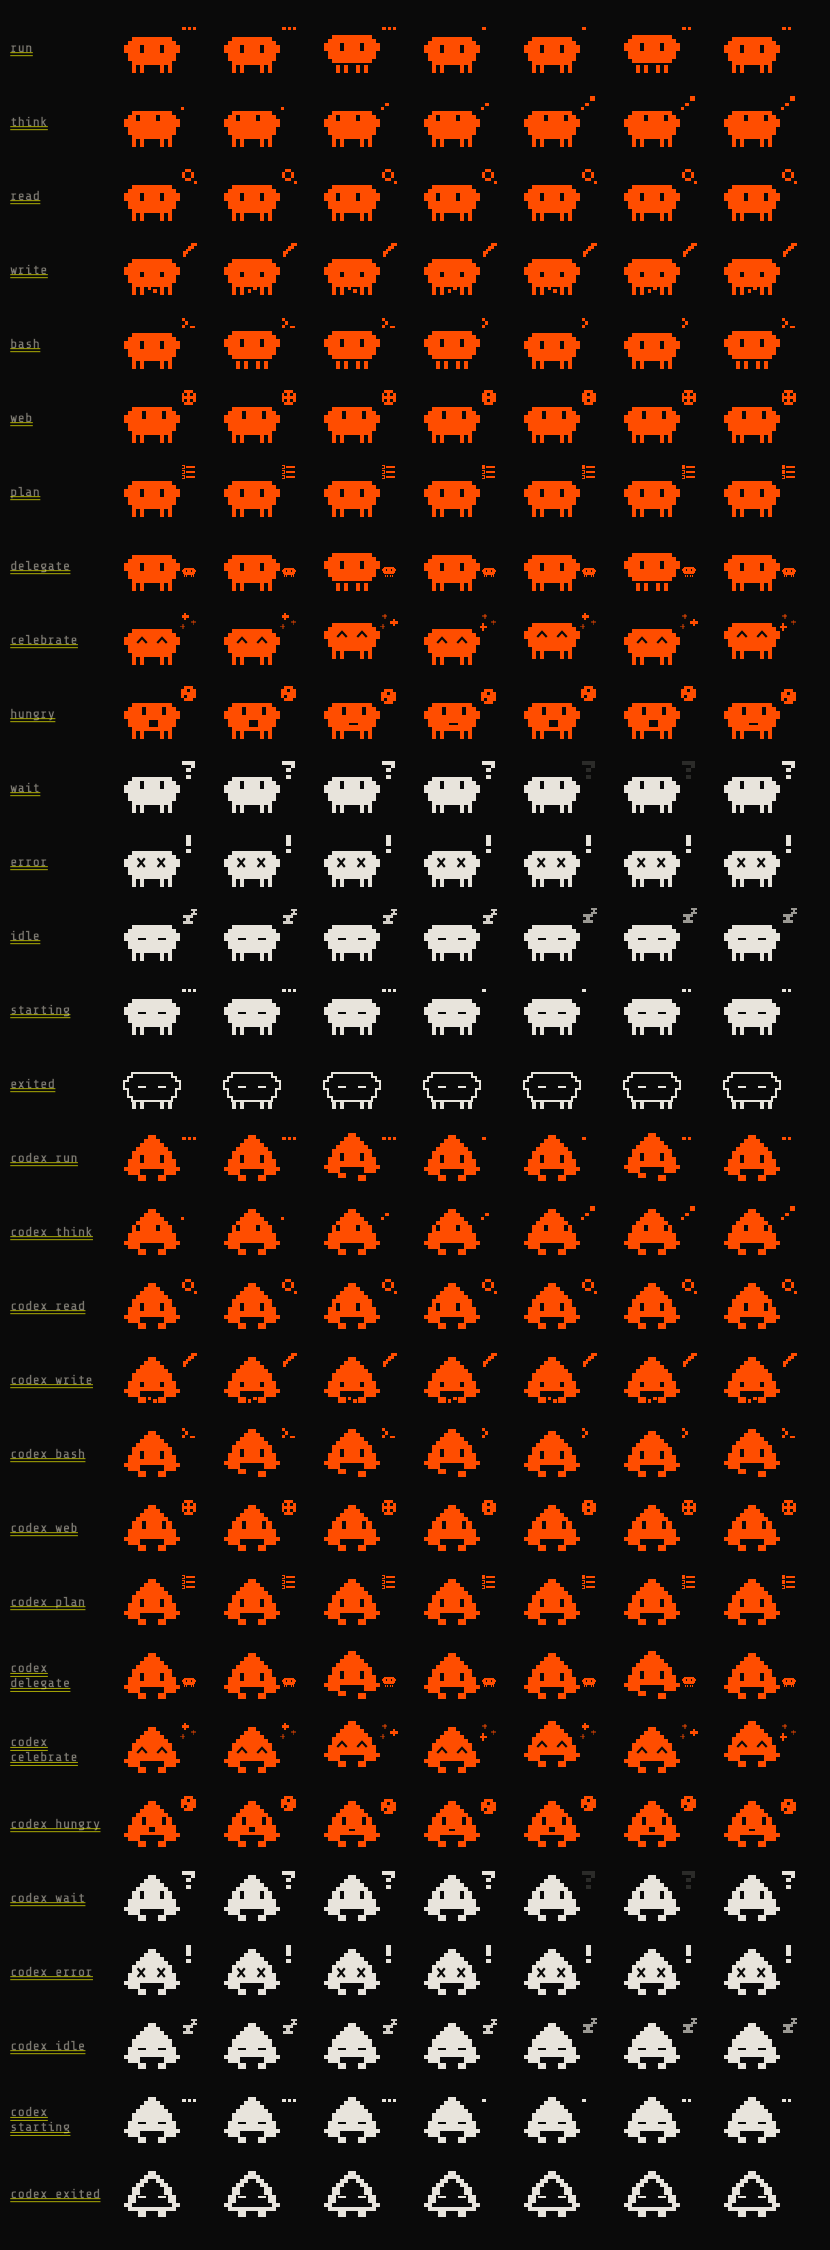
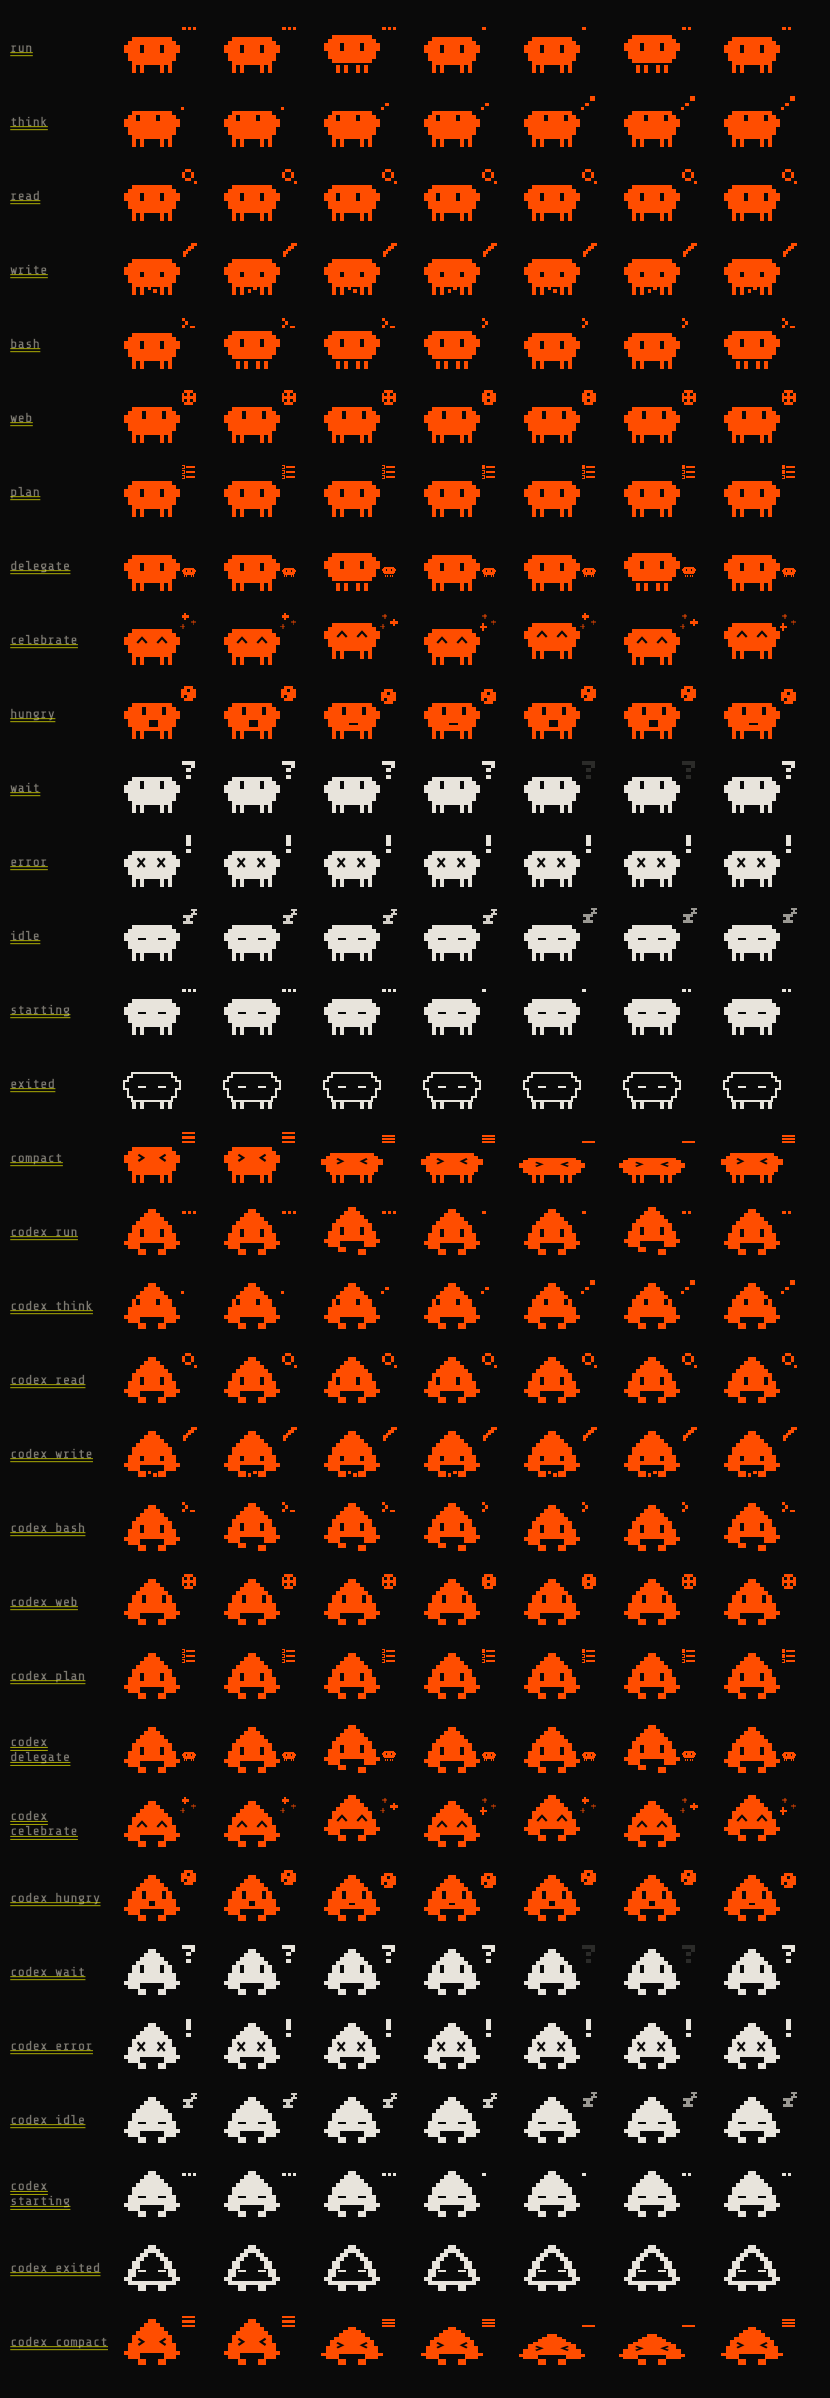
Track compaction: PreCompact to compact boundary, with a squash animation
Claude-Session: https://claude.ai/code/session_01Qi6CVTpwKe76G62P4KuUZF

diff --git a/backend/internal/web/static/app.js b/backend/internal/web/static/app.js
@@ -47,7 +47,7 @@ const ctxPct = (a) => {
   const w = a.context?.window || 0;
   return w ? Math.min(100, Math.round((a.context.used / w) * 100)) : 0;
 };
-const VERBS = { todowrite: 'plan', webfetch: 'web', websearch: 'search', multiedit: 'edit', notebookedit: 'edit', task: 'agent' };
+const VERBS = { compact: 'compacting', todowrite: 'plan', webfetch: 'web', websearch: 'search', multiedit: 'edit', notebookedit: 'edit', task: 'agent' };
 const verb = (tool) => { const t = (tool || '').toLowerCase(); return VERBS[t] || t || 'thinking'; };
 
 // status → sprite pose
@@ -58,7 +58,7 @@ const TOOL_POSE = {
   read: 'read', grep: 'read', glob: 'read', ls: 'read',
   edit: 'write', write: 'write', multiedit: 'write', notebookedit: 'write',
   bash: 'bash', bashoutput: 'bash', killshell: 'bash', killbash: 'bash',
-  webfetch: 'web', websearch: 'web', todowrite: 'plan', task: 'delegate', agent: 'delegate',
+  webfetch: 'web', websearch: 'web', todowrite: 'plan', task: 'delegate', agent: 'delegate', compact: 'compact',
 };
 const poseOf = (a) => {
   if (a.status === 'running') {
@@ -190,6 +190,15 @@ function spriteSVG(pose, species = 'claude') {
       bubble = pixels(['#', '#', '#', '.', '#'], 15.6, 1.2, 'bang'); break;
     case 'start':
       eyes = eyesOpen(2); bubble = DOTS; break;
+    case 'compact': {
+      // Compacting the conversation: squeezed flat and springing back, eyes
+      // strained "> <", while a stack of pages presses into one.
+      eyes = '<path class="cx" stroke-width="0.55" d="M3.6 1.9 L4.8 2.7 L3.6 3.5 M10.4 1.9 L9.2 2.7 L10.4 3.5"/>';
+      grp = 'squash';
+      const bar = (y, cls) => `<rect class="b ${cls}" x="14.6" y="${y}" width="3.2" height="0.6"/>`;
+      bubble = bar(-3.8, 'press2') + bar(-2.7, 'press1') + bar(-1.6, '');
+      break;
+    }
     case 'exit':
       body += bot ? '<path class="c" d="M6 -1h2v1h1v1h1v2h1v2h1v1h-10v-1h1v-2h1v-2h1v-1h1z"/>' : '<path class="c" d="M3 1h8v1h1v3h-1v1h-8v-1h-1v-3h1z"/>';
       eyes = '<rect class="b" x="4" y="3" width="1" height="1"/><rect class="b" x="9" y="3" width="1" height="1"/>'; break;

diff --git a/backend/internal/web/static/app.css b/backend/internal/web/static/app.css
@@ -265,6 +265,12 @@ body.offline .main { opacity: 0.4; }
 @keyframes bobc { 0%, 49% { transform: translateY(0) } 50%, 100% { transform: translateY(0.6px) } }
 .bobc { animation: bobc .6s infinite; }
 .s1 { animation-delay: .2s; } .s2 { animation-delay: .4s; }
+/* compact: four frames, squashed around the feet (x 7, y 7) */
+@keyframes squash { 0%, 24% { transform: none } 25%, 49%, 75%, 100% { transform: scale(1.1, .8) } 50%, 74% { transform: scale(1.2, .62) } }
+@keyframes press1 { 0%, 24% { transform: none } 25%, 49%, 75%, 100% { transform: translateY(0.4px) } 50%, 74% { transform: translateY(1.1px) } }
+@keyframes press2 { 0%, 24% { transform: none } 25%, 49%, 75%, 100% { transform: translateY(0.8px) } 50%, 74% { transform: translateY(2.2px) } }
+.squash { animation: squash 1.2s infinite; transform-box: view-box; transform-origin: 7px 7px; }
+.press1 { animation: press1 1.2s infinite; } .press2 { animation: press2 1.2s infinite; }
 
 /* ---------- empty / expired ---------- */
 .empty {

diff --git a/backend/internal/claude/hooks.go b/backend/internal/claude/hooks.go
@@ -15,8 +15,11 @@ import (
 // Events the per-agent settings file subscribes to.
 var Events = []string{
 	"SessionStart", "UserPromptSubmit", "PreToolUse", "PostToolUse",
-	"PermissionRequest", "Notification", "Stop", "SessionEnd",
+	"PermissionRequest", "Notification", "Stop", "SessionEnd", "PreCompact",
 }
+
+// CompactTool is the activity shown while Claude compacts the conversation.
+const CompactTool = "Compact"
 
 // HooksSettings is the JSON passed to `claude --settings`: every event runs
 // `<agentctl> hook`, which forwards the payload to the daemon and prints nothing.
@@ -46,6 +49,7 @@ type Event struct {
 	NotificationType string          `json:"notification_type"`
 	Source           string          `json:"source"`
 	Reason           string          `json:"reason"`
+	Trigger          string          `json:"trigger"` // PreCompact: manual | auto
 }
 
 // Apply folds one hook event into the agent. It returns true when the agent
@@ -64,7 +68,21 @@ func Apply(e *store.Entry, ev Event) (changed, scanPane bool) {
 		e.A.Cwd = ev.Cwd
 	}
 	switch ev.Name {
+	case "PreCompact":
+		e.SetStatus(model.Running)
+		detail := "compacting conversation"
+		if ev.Trigger == "auto" {
+			detail = "auto-compacting · context full"
+		}
+		e.A.Activity = &model.Activity{Tool: CompactTool, Detail: detail}
+		e.CompactManual = ev.Trigger == "manual"
 	case "SessionStart":
+		if ev.Source == "compact" {
+			if !EndCompact(e) {
+				return false, false
+			}
+			break
+		}
 		if e.A.Status == model.Starting || e.A.Status == model.Exited || e.A.Status == model.Error {
 			e.SetStatus(model.Idle)
 		}
@@ -132,6 +150,21 @@ func Apply(e *store.Entry, ev Event) (changed, scanPane bool) {
 		return false, false
 	}
 	return true, false
+}
+
+// EndCompact clears a running compaction: a /compact you typed leaves the
+// agent idle (it was waiting for you before), an auto-compact goes on working.
+func EndCompact(e *store.Entry) bool {
+	if e.A.Activity == nil || e.A.Activity.Tool != CompactTool {
+		return false
+	}
+	if e.CompactManual {
+		e.SetStatus(model.Idle)
+	} else {
+		e.A.Activity = nil
+	}
+	e.CompactManual = false
+	return true
 }
 
 // DefaultPermissionOptions mirror Claude Code's dialog when the pane can't be read.

diff --git a/backend/internal/store/store.go b/backend/internal/store/store.go
@@ -15,15 +15,16 @@ import (
 
 // Entry is one agent: the wire view plus private bookkeeping.
 type Entry struct {
-	A           model.Agent `json:"agent"`
-	SessionID   string      `json:"sessionId"`  // Claude session uuid
-	Transcript  string      `json:"transcript"` // Claude JSONL path, learned from hooks
-	TmuxName    string      `json:"tmuxName"`
-	Sim         bool        `json:"sim,omitempty"`      // simulated agent (agentctl sim): never resumable, no history
-	TitleSet    bool        `json:"titleSet,omitempty"` // the user named it (-t): never auto-renamed
-	CustomTitle string      `json:"-"`                  // Claude's custom-title (/rename), from the transcript
-	External    bool        `json:"-"`                  // mirrored from another app (Codex); never persisted
-	Background  bool        `json:"-"`                  // shown running only because its subagents are writing
+	A             model.Agent `json:"agent"`
+	SessionID     string      `json:"sessionId"`  // Claude session uuid
+	Transcript    string      `json:"transcript"` // Claude JSONL path, learned from hooks
+	TmuxName      string      `json:"tmuxName"`
+	Sim           bool        `json:"sim,omitempty"`      // simulated agent (agentctl sim): never resumable, no history
+	TitleSet      bool        `json:"titleSet,omitempty"` // the user named it (-t): never auto-renamed
+	CustomTitle   string      `json:"-"`                  // Claude's custom-title (/rename), from the transcript
+	External      bool        `json:"-"`                  // mirrored from another app (Codex); never persisted
+	Background    bool        `json:"-"`                  // shown running only because its subagents are writing
+	CompactManual bool        `json:"-"`                  // the running compaction is a /compact you typed
 
 	// Transcript accounting (rebuilt from the file on restart).
 	Offset  int64               `json:"-"`

diff --git a/backend/internal/sim/agent.go b/backend/internal/sim/agent.go
@@ -77,6 +77,9 @@ func Run(cfg Config) error {
 		}
 	}
 	a.ctx = 18_000 + int64(a.r.Intn(9000))
+	if a.r.Intn(4) == 0 { // a long-running session, close to its first auto-compact
+		a.ctx = a.window() * int64(80+a.r.Intn(9)) / 100
+	}
 
 	restore := rawMode()
 	defer restore()
@@ -248,18 +251,34 @@ func (a *agent) usage(delta int64) {
 	a.msgN++
 	read := a.ctx
 	a.ctx += delta
-	window := int64(1_000_000)
-	if strings.Contains(a.model, "haiku") {
-		window = 200_000
-	}
-	if a.ctx > window*9/10 { // "auto-compact"
-		a.ctx = window / 5
+	if a.ctx > a.window()*9/10 {
+		a.compact()
+		read = a.ctx
+		a.ctx += delta
 	}
 	a.line(map[string]any{"type": "assistant", "gitBranch": a.p.Branch, "message": map[string]any{
 		"id": fmt.Sprintf("msg_sim_%s_%d", a.cfg.ID, a.msgN), "model": a.model,
 		"usage": map[string]any{"input_tokens": 3 + a.r.Intn(40), "output_tokens": 60 + a.r.Intn(900),
 			"cache_read_input_tokens": read, "cache_creation_input_tokens": delta},
 	}})
+}
+
+func (a *agent) window() int64 {
+	if strings.Contains(a.model, "haiku") {
+		return 200_000
+	}
+	return 1_000_000
+}
+
+// compact plays an auto-compact: the hook, a few seconds of summarising,
+// then the boundary line and the fresh session start, like Claude Code.
+func (a *agent) compact() {
+	a.hook("PreCompact", map[string]any{"trigger": "auto"})
+	a.spin("Compacting conversation", 4, 8)
+	a.ctx = 40_000 + int64(a.r.Intn(30_000))
+	a.line(map[string]any{"type": "system", "subtype": "compact_boundary", "content": "Conversation compacted"})
+	a.hook("SessionStart", map[string]any{"source": "compact"})
+	a.print(cDim + "✻ Conversation compacted" + cReset)
 }
 
 // ---- behaviour --------------------------------------------------------------------

diff --git a/backend/internal/claude/claude_test.go b/backend/internal/claude/claude_test.go
@@ -389,3 +389,37 @@ func TestTailCatchesUpInOneCall(t *testing.T) {
 		t.Fatalf("totals over the whole file: %+v", e.A.Tokens)
 	}
 }
+
+func TestCompaction(t *testing.T) {
+	e := &store.Entry{}
+	e.SetStatus(model.Idle)
+	// A /compact you typed: compacting, then back to idle (not hungry).
+	Apply(e, Event{Name: "PreCompact", Trigger: "manual"})
+	if e.A.Status != model.Running || e.A.Activity == nil || e.A.Activity.Tool != CompactTool || e.A.Activity.Detail != "compacting conversation" {
+		t.Fatalf("manual start: %+v %+v", e.A, e.A.Activity)
+	}
+	Apply(e, Event{Name: "SessionStart", Source: "compact"})
+	if e.A.Status != model.Idle || e.A.Activity != nil || e.A.Unseen {
+		t.Fatalf("manual end: %+v %+v", e.A, e.A.Activity)
+	}
+	// Auto-compact mid-turn: the turn goes on, and the transcript's boundary
+	// line ends it if the hook didn't.
+	e.SetStatus(model.Running)
+	Apply(e, Event{Name: "PreCompact", Trigger: "auto"})
+	if e.A.Activity == nil || e.A.Activity.Detail != "auto-compacting · context full" {
+		t.Fatalf("auto start: %+v", e.A.Activity)
+	}
+	path := filepath.Join(t.TempDir(), "s.jsonl")
+	if err := os.WriteFile(path, []byte(`{"type":"system","subtype":"compact_boundary","content":"Conversation compacted"}`+"\n"), 0o600); err != nil {
+		t.Fatal(err)
+	}
+	e.Transcript = path
+	Tail(e)
+	if e.A.Status != model.Running || e.A.Activity != nil {
+		t.Fatalf("auto end: %+v %+v", e.A, e.A.Activity)
+	}
+	// A stray compact SessionStart changes nothing.
+	if changed, _ := Apply(e, Event{Name: "SessionStart", Source: "compact"}); changed {
+		t.Fatal("no compaction running")
+	}
+}

diff --git a/backend/internal/claude/transcript.go b/backend/internal/claude/transcript.go
@@ -22,6 +22,7 @@ const (
 
 type line struct {
 	Type      string `json:"type"`
+	Subtype   string `json:"subtype"`
 	GitBranch string `json:"gitBranch"`
 	AITitle   string `json:"aiTitle"`
 	Custom    string `json:"customTitle"`
@@ -88,6 +89,11 @@ func Tail(e *store.Entry) bool {
 				e.A.Branch, changed = l.GitBranch, true
 			}
 			switch l.Type {
+			case "system":
+				// The compaction finished (also caught by SessionStart "compact").
+				if l.Subtype == "compact_boundary" && EndCompact(e) {
+					changed = true
+				}
 			case "ai-title":
 				if l.AITitle != "" && l.AITitle != e.A.AITitle {
 					e.A.AITitle, changed = l.AITitle, true

diff --git a/README.md b/README.md
@@ -17,7 +17,7 @@ The daemon only talks to your own Mac and your own panel. It has no telemetry an
 | | |
 |---|---|
 | <img src="docs/images/web-board.png" alt="web dashboard: grid of agents"> | <img src="docs/images/web-permission.png" alt="answering a permission prompt from the web"> |
-| **The board.** One tile per agent. The pixel critter shows what the agent is doing (thinking, reading, editing, running a command, planning…). The tile's border fills clockwise with its context window. Orange means it's working; a solid orange tile means it needs you. An agent that has finished but whose result you haven't reviewed yet gets hungry: sliding orange stripes and a critter chomping at a cookie, until you focus its terminal or give it a new task. | **Answer from anywhere.** Permission prompts show the exact command with Claude's own options. Questions show their choices. Your answer is typed into the agent's terminal, and a prompt that has already changed is refused. |
+| **The board.** One tile per agent. The pixel critter shows what the agent is doing (thinking, reading, editing, running a command, planning…); while Claude compacts the conversation it gets squeezed flat and springs back. The tile's border fills clockwise with its context window. Orange means it's working; a solid orange tile means it needs you. An agent that has finished but whose result you haven't reviewed yet gets hungry: sliding orange stripes and a critter chomping at a cookie, until you focus its terminal or give it a new task. | **Answer from anywhere.** Permission prompts show the exact command with Claude's own options. Questions show their choices. Your answer is typed into the agent's terminal, and a prompt that has already changed is refused. |
 | <img src="docs/images/web-detail.png" alt="agent detail"> | <img src="docs/images/web-panel.png" alt="panel view in the browser"> |
 | **Agent detail.** Shows what it's doing now, context used, tokens, estimated cost, turns and the last prompt, plus **focus terminal**, **interrupt** and **stop**. Subagents at work appear as small critters next to the mascot, each posed by what it's doing. | **Panel view.** The web dashboard can mirror the 720×720 desk panel. Arrange the board freely: drag a tile onto any free spot to move it there, or onto another tile to swap them. The layout is shared with the panel. |
 
@@ -29,7 +29,7 @@ A 4-inch 720×720 touch panel (Raspberry Pi CM4, Flutter) talks to the daemon ov
 |---|---|---|
 | <img src="docs/images/panel-board.png" alt="panel board"> | <img src="docs/images/panel-permission.png" alt="panel permission prompt"> | <img src="docs/images/panel-question.png" alt="panel question"> |
 
-<p align="center"><img src="docs/images/critters.png" alt="every critter pose" width="70%"><br><sub>Critter poses: one for each kind of work, plus waiting, error, idle, starting and exited.</sub></p>
+<p align="center"><img src="docs/images/critters.png" alt="every critter pose" width="70%"><br><sub>Critter poses: one for each kind of work, plus waiting, error, idle, starting, exited and compacting.</sub></p>
 
 ### In the terminal
 
@@ -108,6 +108,7 @@ flowchart LR
 ```
 
 - **Status.** Each agent is started with its own hook settings file, so your global `~/.claude/settings.json` is never touched. Hooks report prompts, tool calls, permission requests and stops. Dialogs that don't fire a hook, such as workspace trust, are read off the screen.
+- **Actions.** Compaction (`/compact` or auto-compact) is tracked from the `PreCompact` hook to the transcript's compact boundary, and shown as its own activity and animation.
 - **Usage.** Token counts, model, branch and Claude's session title come from Claude's transcript files. Cost is estimated from public list prices.
 - **Subagents.** Each session's subagent transcripts (`<session>/subagents/agent-*.jsonl`) show which subagents are still working and on what. A session with working subagents shows as running, even while its main loop is idle.
 - **Codex.** A separate watcher polls the Codex state database and tails rollout logs, both read-only (see [Codex sessions](#codex-sessions)).

diff --git a/docs/protocol.md b/docs/protocol.md
@@ -65,7 +65,8 @@ The full state is small (≤ a few KB per agent), so there are no deltas.
   "branch": "main",               // may be ""
   "model": "claude-opus-5-5",     // may be ""
   "modelLabel": "opus 5.5",       // short display form
-  "activity": { "tool": "Edit", "detail": "src/auth/session.ts" }, // or null; only while running
+  "activity": { "tool": "Edit", "detail": "src/auth/session.ts" }, // or null; only while running. Besides
+                                  // Claude's tools: "Compact" while compacting, "Task" for subagents at work
   "lastPrompt": "fix the refresh-token race in session.ts …",      // truncated to 280 chars
   "waiting": null,                // Prompt, only when status == "waiting"
   "error": null,                  // { "message": "api 529 overloaded" } only when status == "error"
